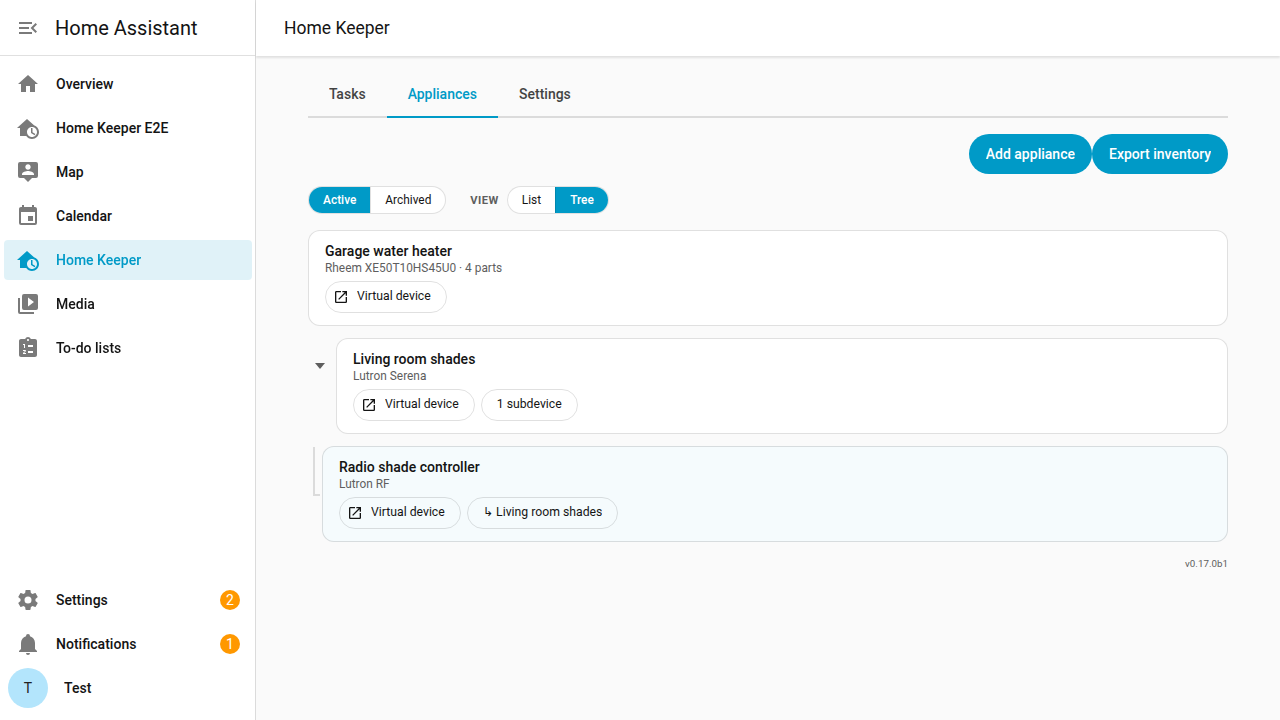
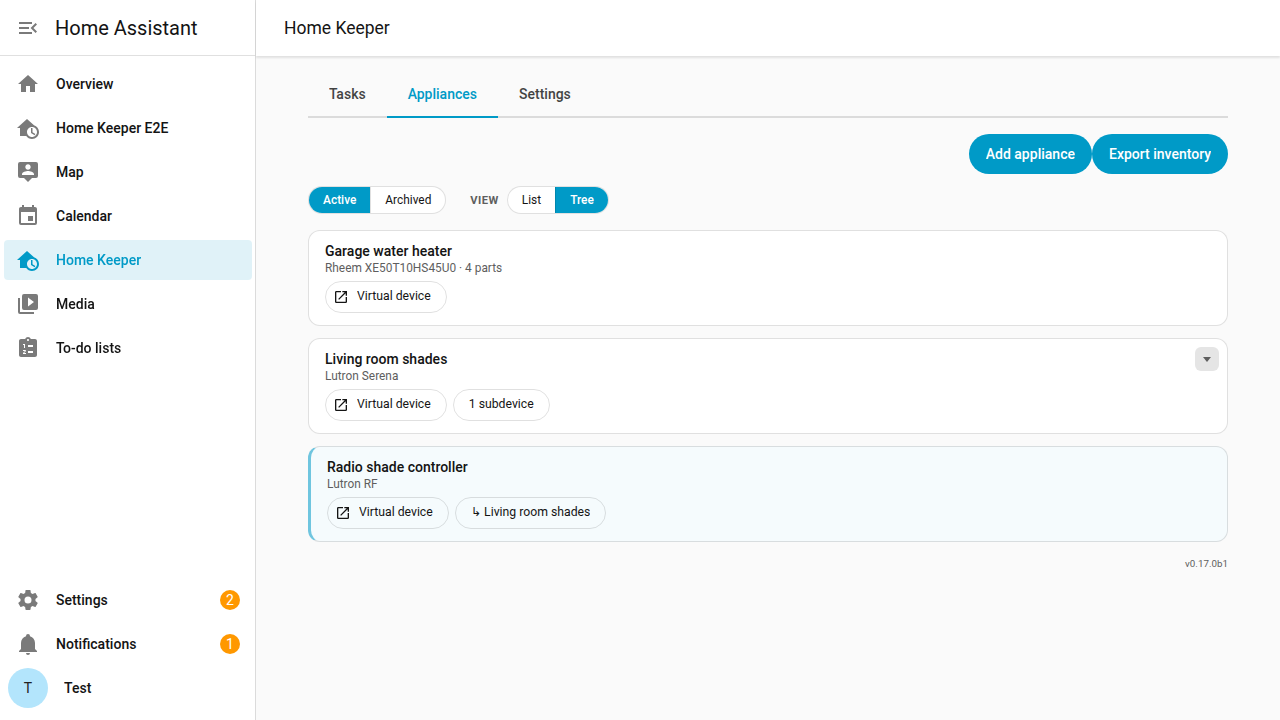
feat(panel): stripe + tint tree style with overlay chevron
Replace indent-based tree hierarchy with full-width cards using a left
color stripe and subtle background tint to encode depth. Move the
collapse chevron from beside the card to an overlay button in the
top-right corner, giving parent cards the same full width as children.

Claude-Session: https://claude.ai/code/session_01RXxmcKA8YeDDP4zijkNUyu

Changed region(s): [[0.2188, 0.6417, 0.4688, 0.7333], [0.25, 0.4889, 0.4375, 0.5806], [0.9375, 0.4889, 0.9688, 0.5194]]

diff --git a/custom_components/home_keeper/frontend/src/panel.ts b/custom_components/home_keeper/frontend/src/panel.ts
@@ -214,7 +214,7 @@ const STYLES = `
   .hk-wrap { padding: 16px; max-width: 920px; margin: 0 auto; }
   ha-tab-group { margin-bottom: 16px; }
   .hk-actionbar { display: flex; justify-content: flex-end; margin-bottom: 12px; }
-  ha-card.hk-card { margin-bottom: 12px; }
+  ha-card.hk-card { margin-bottom: 12px; position: relative; }
   .hk-card-row {
     display: flex; align-items: center; gap: 12px; padding: 12px 16px;
   }
@@ -530,51 +530,29 @@ const STYLES = `
   .hk-card-row .grow.clickable { cursor: pointer; }
   ha-card.hk-card.overdue { border-left: 3px solid var(--error-color); }
   ha-card.hk-card.hk-tree-child {
-    margin-left: calc(var(--hk-tree-depth, 0) * 14px);
-    position: relative;
+    border-left: 3px solid color-mix(in srgb, var(--primary-color) calc(40% + var(--hk-tree-depth, 0) * 15%), transparent);
     background: color-mix(in srgb, var(--primary-color) calc(var(--hk-tree-depth, 0) * 4%), var(--card-background-color, #fff));
   }
-  ha-card.hk-card.hk-tree-child::before {
-    content: '';
-    position: absolute;
-    left: -10px;
-    top: 50%;
-    width: 7px;
-    height: 2px;
-    background: var(--divider-color);
-  }
-  ha-card.hk-card.hk-tree-child::after {
-    content: '';
-    position: absolute;
-    left: -10px;
-    top: 0;
-    height: 100%;
-    width: 2px;
-    background: var(--divider-color);
-  }
-  ha-card.hk-card.hk-tree-child.hk-tree-last::after {
-    height: 50%;
-  }
   .hk-tree-group { margin: 0; }
-  .hk-tree-parent-row {
-    display: flex; align-items: flex-start; gap: 0;
-  }
-  .hk-tree-parent-row > ha-card { flex: 1; min-width: 0; }
   .hk-tree-group:not(.hk-tree-open) > .hk-tree-children { display: none; }
   .hk-chevron {
+    position: absolute;
+    top: 8px;
+    right: 8px;
     display: flex; align-items: center; justify-content: center;
-    width: 24px; height: 24px; flex-shrink: 0;
-    margin-top: 16px; margin-right: 4px;
-    border-radius: 50%;
+    width: 24px; height: 24px;
+    border-radius: 6px;
     cursor: pointer;
+    background: var(--secondary-background-color);
+    z-index: 1;
   }
-  .hk-chevron:hover { background: var(--secondary-background-color); }
+  .hk-chevron:hover { background: var(--divider-color); }
   .hk-chevron::after {
     content: '';
     display: inline-block;
     width: 0; height: 0;
-    border-left: 5px solid transparent; border-right: 5px solid transparent;
-    border-top: 6px solid var(--secondary-text-color);
+    border-left: 4px solid transparent; border-right: 4px solid transparent;
+    border-top: 5px solid var(--secondary-text-color);
     transition: transform 0.15s ease;
   }
   .hk-tree-group:not(.hk-tree-open) .hk-chevron::after {
@@ -2469,20 +2447,15 @@ export class HomeKeeperPanel extends HTMLElement {
           const hasChildren = i + 1 < tree.length && tree[i + 1].depth > depth;
           if (hasChildren) {
             const [childrenHtml, nextI] = renderSubtree(i + 1, depth);
-            const isLast = nextI >= tree.length || tree[nextI].depth <= parentDepth;
             const isOpen = !this._treeCollapsed.has(entry.item.id);
             html += `<div class="hk-tree-group${isOpen ? ' hk-tree-open' : ''}">
-              <div class="hk-tree-parent-row">
-                <span class="hk-chevron" data-tree-toggle="${escapeHTML(entry.item.id)}"></span>
-                ${this._assetCard(entry.item, depth, isLast)}
-              </div>
+              ${this._assetCard(entry.item, depth, false, entry.item.id)}
               <div class="hk-tree-children">${childrenHtml}</div>
             </div>`;
             i = nextI;
           } else {
             i++;
-            const isLast = i >= tree.length || tree[i].depth <= parentDepth;
-            html += this._assetCard(entry.item, depth, isLast);
+            html += this._assetCard(entry.item, depth);
           }
         }
         return [html, i];
@@ -2554,7 +2527,7 @@ export class HomeKeeperPanel extends HTMLElement {
       </ha-card>`;
   }
 
-  private _assetCard(x: Asset, depth = 0, isLast = false): string {
+  private _assetCard(x: Asset, depth = 0, isLast = false, toggleId = ''): string {
     const kindChip =
       x.kind === 'virtual'
         ? this._virtualDeviceChip(x)
@@ -2581,10 +2554,14 @@ export class HomeKeeperPanel extends HTMLElement {
         ? `<ha-assist-chip class="hk-archived" label="${escapeHTML(t('chip.archived'))}"></ha-assist-chip>`
         : '',
     ].join('');
-    const depthClass = depth > 0 ? ` hk-tree-child${isLast ? ' hk-tree-last' : ''}` : '';
+    const depthClass = depth > 0 ? ' hk-tree-child' : '';
     const depthStyle = depth > 0 ? ` style="--hk-tree-depth: ${depth}"` : '';
+    const chevron = toggleId
+      ? `<span class="hk-chevron" data-tree-toggle="${escapeHTML(toggleId)}"></span>`
+      : '';
     return `
       <ha-card class="hk-card${depthClass}" data-id="${escapeHTML(x.id)}"${depthStyle}>
+        ${chevron}
         <div class="hk-card-row">
           <div class="grow clickable detail-open" data-detail-kind="asset" data-detail-id="${escapeHTML(x.id)}" role="button" tabindex="0">
             <div class="hk-name">${escapeHTML(title)}</div>
